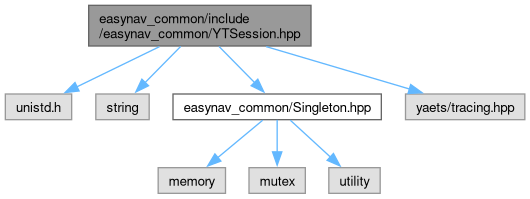
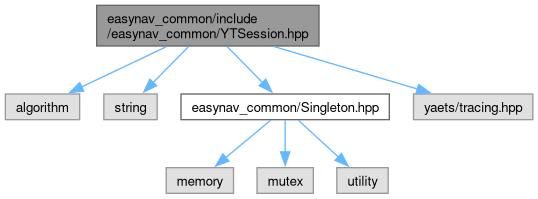
deploy: b920c87d57a5a49e52de9f60b9d99edee0049f30

diff --git a/YTSession_8hpp_source.html b/YTSession_8hpp_source.html
@@ -123,62 +123,73 @@ document.addEventListener('DOMContentLoaded', () => {
 <div class="line"><a id="l00016" name="l00016"></a><span class="lineno">   16</span><span class="preprocessor">#ifndef EASYNAV_COMMON_TYPES__YTSESSION_HPP_</span></div>
 <div class="line"><a id="l00017" name="l00017"></a><span class="lineno">   17</span><span class="preprocessor">#define EASYNAV_COMMON_TYPES__YTSESSION_HPP_</span></div>
 <div class="line"><a id="l00018" name="l00018"></a><span class="lineno">   18</span> </div>
-<div class="line"><a id="l00019" name="l00019"></a><span class="lineno">   19</span><span class="preprocessor">#include &lt;unistd.h&gt;</span></div>
-<div class="line"><a id="l00020" name="l00020"></a><span class="lineno">   20</span> </div>
-<div class="line"><a id="l00021" name="l00021"></a><span class="lineno">   21</span><span class="preprocessor">#include &lt;string&gt;</span></div>
-<div class="line"><a id="l00022" name="l00022"></a><span class="lineno">   22</span> </div>
-<div class="line"><a id="l00023" name="l00023"></a><span class="lineno">   23</span><span class="preprocessor">#include &quot;<a class="code" href="Singleton_8hpp.html">easynav_common/Singleton.hpp</a>&quot;</span></div>
-<div class="line"><a id="l00024" name="l00024"></a><span class="lineno">   24</span> </div>
-<div class="line"><a id="l00025" name="l00025"></a><span class="lineno">   25</span><span class="preprocessor">#include &quot;yaets/tracing.hpp&quot;</span></div>
-<div class="line"><a id="l00026" name="l00026"></a><span class="lineno">   26</span> </div>
-<div class="line"><a id="l00027" name="l00027"></a><span class="lineno">   27</span><span class="keyword">namespace </span><a class="code hl_namespace" href="namespaceeasynav.html">easynav</a></div>
-<div class="line"><a id="l00028" name="l00028"></a><span class="lineno">   28</span>{</div>
-<div class="line"><a id="l00029" name="l00029"></a><span class="lineno">   29</span></div>
-<div class="foldopen" id="foldopen00034" data-start="{" data-end="};">
-<div class="line"><a id="l00034" name="l00034"></a><span class="lineno"><a class="line" href="classeasynav_1_1YTSession.html">   34</a></span><span class="keyword">class </span><a class="code hl_function" href="classeasynav_1_1YTSession.html#a31be0c596001be5ae522a9268c283280">YTSession</a> : <span class="keyword">public</span> yaets::TraceSession, <span class="keyword">public</span> <a class="code hl_function" href="classeasynav_1_1Singleton.html#a48d1fc15e788981ec5f7fe3e5c8641d7">Singleton</a>&lt;YTSession&gt;</div>
-<div class="line"><a id="l00035" name="l00035"></a><span class="lineno">   35</span>{</div>
-<div class="line"><a id="l00036" name="l00036"></a><span class="lineno">   36</span><span class="keyword">public</span>:</div>
-<div class="foldopen" id="foldopen00037" data-start="{" data-end="}">
-<div class="line"><a id="l00037" name="l00037"></a><span class="lineno"><a class="line" href="classeasynav_1_1YTSession.html#a31be0c596001be5ae522a9268c283280">   37</a></span>  <span class="keyword">explicit</span> <a class="code hl_function" href="classeasynav_1_1YTSession.html#a31be0c596001be5ae522a9268c283280">YTSession</a>()</div>
-<div class="line"><a id="l00038" name="l00038"></a><span class="lineno">   38</span>  : yaets::TraceSession(log_path())</div>
-<div class="line"><a id="l00039" name="l00039"></a><span class="lineno">   39</span>  {}</div>
-</div>
-<div class="line"><a id="l00040" name="l00040"></a><span class="lineno">   40</span> </div>
-<div class="foldopen" id="foldopen00041" data-start="{" data-end="}">
-<div class="line"><a id="l00041" name="l00041"></a><span class="lineno"><a class="line" href="classeasynav_1_1YTSession.html#afccea8a77e02010809479a7dd16218ef">   41</a></span>  <a class="code hl_function" href="classeasynav_1_1YTSession.html#afccea8a77e02010809479a7dd16218ef">~YTSession</a>()</div>
-<div class="line"><a id="l00042" name="l00042"></a><span class="lineno">   42</span>  {</div>
-<div class="line"><a id="l00043" name="l00043"></a><span class="lineno">   43</span>    stop();</div>
-<div class="line"><a id="l00044" name="l00044"></a><span class="lineno">   44</span>  }</div>
+<div class="line"><a id="l00019" name="l00019"></a><span class="lineno">   19</span><span class="preprocessor">#include &lt;algorithm&gt;</span></div>
+<div class="line"><a id="l00020" name="l00020"></a><span class="lineno">   20</span><span class="preprocessor">#include &lt;string&gt;</span></div>
+<div class="line"><a id="l00021" name="l00021"></a><span class="lineno">   21</span> </div>
+<div class="line"><a id="l00022" name="l00022"></a><span class="lineno">   22</span><span class="preprocessor">#include &quot;<a class="code" href="Singleton_8hpp.html">easynav_common/Singleton.hpp</a>&quot;</span></div>
+<div class="line"><a id="l00023" name="l00023"></a><span class="lineno">   23</span> </div>
+<div class="line"><a id="l00024" name="l00024"></a><span class="lineno">   24</span><span class="preprocessor">#include &quot;yaets/tracing.hpp&quot;</span></div>
+<div class="line"><a id="l00025" name="l00025"></a><span class="lineno">   25</span> </div>
+<div class="line"><a id="l00026" name="l00026"></a><span class="lineno">   26</span><span class="keyword">namespace </span><a class="code hl_namespace" href="namespaceeasynav.html">easynav</a></div>
+<div class="line"><a id="l00027" name="l00027"></a><span class="lineno">   27</span>{</div>
+<div class="line"><a id="l00028" name="l00028"></a><span class="lineno">   28</span></div>
+<div class="foldopen" id="foldopen00033" data-start="{" data-end="};">
+<div class="line"><a id="l00033" name="l00033"></a><span class="lineno"><a class="line" href="classeasynav_1_1YTSession.html">   33</a></span><span class="keyword">class </span><a class="code hl_function" href="classeasynav_1_1YTSession.html#a2695b9131e703e82ea893cd8c0a37cec">YTSession</a> : <span class="keyword">public</span> yaets::TraceSession, <span class="keyword">public</span> <a class="code hl_function" href="classeasynav_1_1Singleton.html#a48d1fc15e788981ec5f7fe3e5c8641d7">Singleton</a>&lt;YTSession&gt;</div>
+<div class="line"><a id="l00034" name="l00034"></a><span class="lineno">   34</span>{</div>
+<div class="line"><a id="l00035" name="l00035"></a><span class="lineno">   35</span><span class="keyword">public</span>:</div>
+<div class="foldopen" id="foldopen00042" data-start="{" data-end="}">
+<div class="line"><a id="l00042" name="l00042"></a><span class="lineno"><a class="line" href="classeasynav_1_1YTSession.html#a2695b9131e703e82ea893cd8c0a37cec">   42</a></span>  <span class="keyword">explicit</span> <a class="code hl_function" href="classeasynav_1_1YTSession.html#a2695b9131e703e82ea893cd8c0a37cec">YTSession</a>(<span class="keyword">const</span> std::string &amp; ros_namespace = <span class="stringliteral">&quot;&quot;</span>)</div>
+<div class="line"><a id="l00043" name="l00043"></a><span class="lineno">   43</span>  : yaets::TraceSession(log_path(ros_namespace))</div>
+<div class="line"><a id="l00044" name="l00044"></a><span class="lineno">   44</span>  {}</div>
 </div>
 <div class="line"><a id="l00045" name="l00045"></a><span class="lineno">   45</span> </div>
-<div class="line"><a id="l00046" name="l00046"></a><span class="lineno">   46</span>  <a class="code hl_define" href="Singleton_8hpp.html#af0372c6f11888fb8af91d3a0c10a1899">SINGLETON_DEFINITIONS</a>(<a class="code hl_class" href="classeasynav_1_1YTSession.html">YTSession</a>)</div>
-<div class="line"><a id="l00047" name="l00047"></a><span class="lineno">   47</span> </div>
-<div class="line"><a id="l00048" name="l00048"></a><span class="lineno">   48</span><span class="keyword">private</span>:</div>
-<div class="line"><a id="l00050" name="l00050"></a><span class="lineno">   50</span>  <span class="keyword">static</span> std::string log_path()</div>
-<div class="line"><a id="l00051" name="l00051"></a><span class="lineno">   51</span>  {</div>
-<div class="line"><a id="l00052" name="l00052"></a><span class="lineno">   52</span>    <span class="keywordflow">return</span> <span class="stringliteral">&quot;/tmp/easynav_&quot;</span> + std::to_string(::getpid()) + <span class="stringliteral">&quot;.log&quot;</span>;</div>
-<div class="line"><a id="l00053" name="l00053"></a><span class="lineno">   53</span>  }</div>
-<div class="line"><a id="l00054" name="l00054"></a><span class="lineno">   54</span>};</div>
+<div class="foldopen" id="foldopen00046" data-start="{" data-end="}">
+<div class="line"><a id="l00046" name="l00046"></a><span class="lineno"><a class="line" href="classeasynav_1_1YTSession.html#afccea8a77e02010809479a7dd16218ef">   46</a></span>  <a class="code hl_function" href="classeasynav_1_1YTSession.html#afccea8a77e02010809479a7dd16218ef">~YTSession</a>()</div>
+<div class="line"><a id="l00047" name="l00047"></a><span class="lineno">   47</span>  {</div>
+<div class="line"><a id="l00048" name="l00048"></a><span class="lineno">   48</span>    stop();</div>
+<div class="line"><a id="l00049" name="l00049"></a><span class="lineno">   49</span>  }</div>
 </div>
-<div class="line"><a id="l00055" name="l00055"></a><span class="lineno">   55</span> </div>
-<div class="line"><a id="l00056" name="l00056"></a><span class="lineno">   56</span>}  <span class="comment">// namespace easynav</span></div>
-<div class="line"><a id="l00057" name="l00057"></a><span class="lineno">   57</span> </div>
-<div class="line"><a id="l00058" name="l00058"></a><span class="lineno">   58</span><span class="preprocessor">#ifdef EASYNAV_DEBUG_WITH_YAETS</span></div>
-<div class="line"><a id="l00059" name="l00059"></a><span class="lineno">   59</span><span class="preprocessor">  #define EASYNAV_TRACE_EVENT TRACE_EVENT(easynav::YTSession::get())</span></div>
-<div class="line"><a id="l00060" name="l00060"></a><span class="lineno">   60</span><span class="preprocessor">  #define EASYNAV_TRACE_NAMED_EVENT(name) yaets::TraceGuard guard(easynav::YTSession::get(), name);</span></div>
-<div class="line"><a id="l00061" name="l00061"></a><span class="lineno">   61</span><span class="preprocessor">#else</span></div>
-<div class="line"><a id="l00062" name="l00062"></a><span class="lineno"><a class="line" href="YTSession_8hpp.html#a6937fabb6e5178e0974bb8a8e8fdc495">   62</a></span><span class="preprocessor">  #define EASYNAV_TRACE_EVENT ((void)0)</span></div>
-<div class="line"><a id="l00063" name="l00063"></a><span class="lineno"><a class="line" href="YTSession_8hpp.html#a7a303b11d7d2d05815d05bea14db6303">   63</a></span><span class="preprocessor">  #define EASYNAV_TRACE_NAMED_EVENT(name) ((void)0)</span></div>
-<div class="line"><a id="l00064" name="l00064"></a><span class="lineno">   64</span><span class="preprocessor">#endif</span></div>
-<div class="line"><a id="l00065" name="l00065"></a><span class="lineno">   65</span> </div>
-<div class="line"><a id="l00066" name="l00066"></a><span class="lineno">   66</span> </div>
-<div class="line"><a id="l00067" name="l00067"></a><span class="lineno">   67</span><span class="preprocessor">#endif  </span><span class="comment">// EASYNAV_COMMON_TYPES__YTSESSION_HPP_</span></div>
+<div class="line"><a id="l00050" name="l00050"></a><span class="lineno">   50</span> </div>
+<div class="line"><a id="l00051" name="l00051"></a><span class="lineno">   51</span>  <a class="code hl_define" href="Singleton_8hpp.html#af0372c6f11888fb8af91d3a0c10a1899">SINGLETON_DEFINITIONS</a>(<a class="code hl_class" href="classeasynav_1_1YTSession.html">YTSession</a>)</div>
+<div class="line"><a id="l00052" name="l00052"></a><span class="lineno">   52</span> </div>
+<div class="line"><a id="l00053" name="l00053"></a><span class="lineno">   53</span><span class="keyword">private</span>:</div>
+<div class="line"><a id="l00060" name="l00060"></a><span class="lineno">   60</span>  <span class="keyword">static</span> std::string log_path(<span class="keyword">const</span> std::string &amp; ros_namespace)</div>
+<div class="line"><a id="l00061" name="l00061"></a><span class="lineno">   61</span>  {</div>
+<div class="line"><a id="l00062" name="l00062"></a><span class="lineno">   62</span>    std::string ns = ros_namespace;</div>
+<div class="line"><a id="l00063" name="l00063"></a><span class="lineno">   63</span>    <span class="keywordflow">while</span> (!ns.empty() &amp;&amp; ns.front() == <span class="charliteral">&#39;/&#39;</span>) {</div>
+<div class="line"><a id="l00064" name="l00064"></a><span class="lineno">   64</span>      ns.erase(ns.begin());</div>
+<div class="line"><a id="l00065" name="l00065"></a><span class="lineno">   65</span>    }</div>
+<div class="line"><a id="l00066" name="l00066"></a><span class="lineno">   66</span>    <span class="keywordflow">while</span> (!ns.empty() &amp;&amp; ns.back() == <span class="charliteral">&#39;/&#39;</span>) {</div>
+<div class="line"><a id="l00067" name="l00067"></a><span class="lineno">   67</span>      ns.pop_back();</div>
+<div class="line"><a id="l00068" name="l00068"></a><span class="lineno">   68</span>    }</div>
+<div class="line"><a id="l00069" name="l00069"></a><span class="lineno">   69</span>    std::replace(ns.begin(), ns.end(), <span class="charliteral">&#39;/&#39;</span>, <span class="charliteral">&#39;_&#39;</span>);</div>
+<div class="line"><a id="l00070" name="l00070"></a><span class="lineno">   70</span> </div>
+<div class="line"><a id="l00071" name="l00071"></a><span class="lineno">   71</span>    <span class="keywordflow">if</span> (ns.empty()) {</div>
+<div class="line"><a id="l00072" name="l00072"></a><span class="lineno">   72</span>      <span class="keywordflow">return</span> <span class="stringliteral">&quot;/tmp/easynav.log&quot;</span>;</div>
+<div class="line"><a id="l00073" name="l00073"></a><span class="lineno">   73</span>    }</div>
+<div class="line"><a id="l00074" name="l00074"></a><span class="lineno">   74</span>    <span class="keywordflow">return</span> <span class="stringliteral">&quot;/tmp/easynav_&quot;</span> + ns + <span class="stringliteral">&quot;.log&quot;</span>;</div>
+<div class="line"><a id="l00075" name="l00075"></a><span class="lineno">   75</span>  }</div>
+<div class="line"><a id="l00076" name="l00076"></a><span class="lineno">   76</span>};</div>
+</div>
+<div class="line"><a id="l00077" name="l00077"></a><span class="lineno">   77</span> </div>
+<div class="line"><a id="l00078" name="l00078"></a><span class="lineno">   78</span>}  <span class="comment">// namespace easynav</span></div>
+<div class="line"><a id="l00079" name="l00079"></a><span class="lineno">   79</span> </div>
+<div class="line"><a id="l00080" name="l00080"></a><span class="lineno">   80</span><span class="preprocessor">#ifdef EASYNAV_DEBUG_WITH_YAETS</span></div>
+<div class="line"><a id="l00081" name="l00081"></a><span class="lineno">   81</span><span class="preprocessor">  #define EASYNAV_TRACE_EVENT TRACE_EVENT(easynav::YTSession::get())</span></div>
+<div class="line"><a id="l00082" name="l00082"></a><span class="lineno">   82</span><span class="preprocessor">  #define EASYNAV_TRACE_NAMED_EVENT(name) yaets::TraceGuard guard(easynav::YTSession::get(), name);</span></div>
+<div class="line"><a id="l00083" name="l00083"></a><span class="lineno">   83</span><span class="preprocessor">#else</span></div>
+<div class="line"><a id="l00084" name="l00084"></a><span class="lineno"><a class="line" href="YTSession_8hpp.html#a6937fabb6e5178e0974bb8a8e8fdc495">   84</a></span><span class="preprocessor">  #define EASYNAV_TRACE_EVENT ((void)0)</span></div>
+<div class="line"><a id="l00085" name="l00085"></a><span class="lineno"><a class="line" href="YTSession_8hpp.html#a7a303b11d7d2d05815d05bea14db6303">   85</a></span><span class="preprocessor">  #define EASYNAV_TRACE_NAMED_EVENT(name) ((void)0)</span></div>
+<div class="line"><a id="l00086" name="l00086"></a><span class="lineno">   86</span><span class="preprocessor">#endif</span></div>
+<div class="line"><a id="l00087" name="l00087"></a><span class="lineno">   87</span> </div>
+<div class="line"><a id="l00088" name="l00088"></a><span class="lineno">   88</span> </div>
+<div class="line"><a id="l00089" name="l00089"></a><span class="lineno">   89</span><span class="preprocessor">#endif  </span><span class="comment">// EASYNAV_COMMON_TYPES__YTSESSION_HPP_</span></div>
 <div class="ttc" id="aSingleton_8hpp_html"><div class="ttname"><a href="Singleton_8hpp.html">Singleton.hpp</a></div></div>
 <div class="ttc" id="aSingleton_8hpp_html_af0372c6f11888fb8af91d3a0c10a1899"><div class="ttname"><a href="Singleton_8hpp.html#af0372c6f11888fb8af91d3a0c10a1899">SINGLETON_DEFINITIONS</a></div><div class="ttdeci">#define SINGLETON_DEFINITIONS(ClassName)</div><div class="ttdef"><b>Definition</b> Singleton.hpp:81</div></div>
 <div class="ttc" id="aclasseasynav_1_1Singleton_html_a48d1fc15e788981ec5f7fe3e5c8641d7"><div class="ttname"><a href="classeasynav_1_1Singleton.html#a48d1fc15e788981ec5f7fe3e5c8641d7">easynav::Singleton&lt; YTSession &gt;::Singleton</a></div><div class="ttdeci">Singleton()=default</div></div>
-<div class="ttc" id="aclasseasynav_1_1YTSession_html"><div class="ttname"><a href="classeasynav_1_1YTSession.html">easynav::YTSession</a></div><div class="ttdoc">A Yaets Tracing Session.</div><div class="ttdef"><b>Definition</b> YTSession.hpp:35</div></div>
-<div class="ttc" id="aclasseasynav_1_1YTSession_html_a31be0c596001be5ae522a9268c283280"><div class="ttname"><a href="classeasynav_1_1YTSession.html#a31be0c596001be5ae522a9268c283280">easynav::YTSession::YTSession</a></div><div class="ttdeci">YTSession()</div><div class="ttdef"><b>Definition</b> YTSession.hpp:37</div></div>
-<div class="ttc" id="aclasseasynav_1_1YTSession_html_afccea8a77e02010809479a7dd16218ef"><div class="ttname"><a href="classeasynav_1_1YTSession.html#afccea8a77e02010809479a7dd16218ef">easynav::YTSession::~YTSession</a></div><div class="ttdeci">~YTSession()</div><div class="ttdef"><b>Definition</b> YTSession.hpp:41</div></div>
+<div class="ttc" id="aclasseasynav_1_1YTSession_html"><div class="ttname"><a href="classeasynav_1_1YTSession.html">easynav::YTSession</a></div><div class="ttdoc">A Yaets Tracing Session.</div><div class="ttdef"><b>Definition</b> YTSession.hpp:34</div></div>
+<div class="ttc" id="aclasseasynav_1_1YTSession_html_a2695b9131e703e82ea893cd8c0a37cec"><div class="ttname"><a href="classeasynav_1_1YTSession.html#a2695b9131e703e82ea893cd8c0a37cec">easynav::YTSession::YTSession</a></div><div class="ttdeci">YTSession(const std::string &amp;ros_namespace=&quot;&quot;)</div><div class="ttdef"><b>Definition</b> YTSession.hpp:42</div></div>
+<div class="ttc" id="aclasseasynav_1_1YTSession_html_afccea8a77e02010809479a7dd16218ef"><div class="ttname"><a href="classeasynav_1_1YTSession.html#afccea8a77e02010809479a7dd16218ef">easynav::YTSession::~YTSession</a></div><div class="ttdeci">~YTSession()</div><div class="ttdef"><b>Definition</b> YTSession.hpp:46</div></div>
 <div class="ttc" id="anamespaceeasynav_html"><div class="ttname"><a href="namespaceeasynav.html">easynav</a></div><div class="ttdef"><b>Definition</b> CircularBuffer.hpp:23</div></div>
 </div><!-- fragment --></div><!-- contents -->
 <!-- start footer part -->

diff --git a/classeasynav_1_1YTSession.html b/classeasynav_1_1YTSession.html
@@ -140,7 +140,7 @@ Collaboration diagram for YTSession:</div>
 <table class="memberdecls">
 <tr class="heading"><td colspan="2"><h2 id="header-pub-methods" class="groupheader"><a id="pub-methods" name="pub-methods"></a>
 Public Member Functions</h2></td></tr>
-<tr class="memitem:a31be0c596001be5ae522a9268c283280" id="r_a31be0c596001be5ae522a9268c283280"><td class="memItemLeft">&#160;</td><td class="memItemRight"><a class="el" href="#a31be0c596001be5ae522a9268c283280">YTSession</a> ()</td></tr>
+<tr class="memitem:a2695b9131e703e82ea893cd8c0a37cec" id="r_a2695b9131e703e82ea893cd8c0a37cec"><td class="memItemLeft">&#160;</td><td class="memItemRight"><a class="el" href="#a2695b9131e703e82ea893cd8c0a37cec">YTSession</a> (const std::string &amp;ros_namespace=&quot;&quot;)</td></tr>
 <tr class="memitem:afccea8a77e02010809479a7dd16218ef" id="r_afccea8a77e02010809479a7dd16218ef"><td class="memItemLeft">&#160;</td><td class="memItemRight"><a class="el" href="#afccea8a77e02010809479a7dd16218ef">~YTSession</a> ()</td></tr>
 </table><table class="memberdecls">
 <tr class="heading"><td colspan="2"><h2 id="header-inherited" class="groupheader"><a id="inherited" name="inherited"></a>
@@ -158,8 +158,8 @@ Additional Inherited Members</h2></td></tr>
 <a name="details" id="details"></a><h2 id="header-details" class="groupheader">Detailed Description</h2>
 <div class="textblock"><p>A Yaets Tracing Session. </p>
 </div><a name="doc-constructors" id="doc-constructors"></a><h2 id="header-doc-constructors" class="groupheader">Constructor &amp; Destructor Documentation</h2>
-<a id="a31be0c596001be5ae522a9268c283280" name="a31be0c596001be5ae522a9268c283280"></a>
-<h2 class="memtitle"><span class="permalink"><a href="#a31be0c596001be5ae522a9268c283280">&#9670;&#160;</a></span>YTSession()</h2>
+<a id="a2695b9131e703e82ea893cd8c0a37cec" name="a2695b9131e703e82ea893cd8c0a37cec"></a>
+<h2 class="memtitle"><span class="permalink"><a href="#a2695b9131e703e82ea893cd8c0a37cec">&#9670;&#160;</a></span>YTSession()</h2>
 
 <div class="memitem">
 <div class="memproto">
@@ -170,7 +170,7 @@ Additional Inherited Members</h2></td></tr>
         <tr>
           <td class="memname">YTSession </td>
           <td>(</td>
-          <td class="paramname"><span class="paramname"><em></em></span></td><td>)</td>
+          <td class="paramtype">const std::string &amp;</td>          <td class="paramname"><span class="paramname"><em>ros_namespace</em></span><span class="paramdefsep"> = </span><span class="paramdefval">&quot;&quot;</span></td><td>)</td>
           <td></td>
         </tr>
       </table>
@@ -180,6 +180,12 @@ Additional Inherited Members</h2></td></tr>
   </tr>
 </table>
 </div><div class="memdoc">
+<dl class="params"><dt>Parameters</dt><dd>
+  <table class="params">
+    <tr><td class="paramname">ros_namespace</td><td>The owning node's ROS namespace (e.g. "/robot_1" or "/"), used to pick this instance's trace log path &ndash; see log_path(). Only the first call across <a class="el" href="classeasynav_1_1Singleton.html#af49757e19ecd10cba2575b788ca6046f">getInstance()</a>/get() overloads (from any translation unit) actually constructs the singleton, so this must be supplied before any EASYNAV_TRACE_EVENT/EASYNAV_TRACE_NAMED_EVENT fires; <a class="el" href="system__main_8cpp.html">system_main.cpp</a> does this right after creating system_node. </td></tr>
+  </table>
+  </dd>
+</dl>
 
 </div>
 </div>
@@ -190,7 +196,7 @@ Additional Inherited Members</h2></td></tr>
 <div class="memproto">
       <table class="memname">
         <tr>
-          <td class="memname">~<a class="el" href="#a31be0c596001be5ae522a9268c283280">YTSession</a> </td>
+          <td class="memname">~<a class="el" href="#a2695b9131e703e82ea893cd8c0a37cec">YTSession</a> </td>
           <td>(</td>
           <td class="paramname"><span class="paramname"><em></em></span></td><td>)</td>
           <td></td>

diff --git a/YTSession_8hpp.html b/YTSession_8hpp.html
@@ -109,7 +109,7 @@ document.addEventListener('DOMContentLoaded', () => {
   <div class="headertitle"><div class="title">YTSession.hpp File Reference</div></div>
 </div><!--header-->
 <div class="contents">
-<div class="textblock"><code>#include &lt;unistd.h&gt;</code><br />
+<div class="textblock"><code>#include &lt;algorithm&gt;</code><br />
 <code>#include &lt;string&gt;</code><br />
 <code>#include &quot;<a class="el" href="Singleton_8hpp_source.html">easynav_common/Singleton.hpp</a>&quot;</code><br />
 <code>#include &quot;yaets/tracing.hpp&quot;</code><br />
@@ -118,21 +118,21 @@ Include dependency graph for YTSession.hpp:</div>
 <div class="dyncontent">
 <div class="center"><img src="YTSession_8hpp__incl.png" border="0" usemap="#aeasynav__common_2include_2easynav__common_2YTSession_8hpp" loading="lazy" alt=""/></div>
 <map name="aeasynav__common_2include_2easynav__common_2YTSession_8hpp" id="aeasynav__common_2include_2easynav__common_2YTSession_8hpp">
-<area shape="rect" title=" " alt="" coords="89,5,311,46"/>
-<area shape="rect" title=" " alt="" coords="5,94,72,120"/>
-<area shape="poly" title=" " alt="" coords="161,49,78,89,76,84,158,44"/>
-<area shape="rect" title=" " alt="" coords="96,94,149,120"/>
-<area shape="poly" title=" " alt="" coords="183,48,147,84,143,81,179,45"/>
-<area shape="rect" href="Singleton_8hpp.html" title=" " alt="" coords="173,94,381,120"/>
-<area shape="poly" title=" " alt="" coords="221,45,256,81,253,84,217,48"/>
-<area shape="rect" title=" " alt="" coords="406,94,525,120"/>
-<area shape="poly" title=" " alt="" coords="267,44,410,86,409,92,265,49"/>
-<area shape="rect" title=" " alt="" coords="158,168,226,193"/>
-<area shape="poly" title=" " alt="" coords="264,122,219,160,216,156,261,118"/>
-<area shape="rect" title=" " alt="" coords="249,168,305,193"/>
-<area shape="poly" title=" " alt="" coords="280,120,280,152,274,152,274,120"/>
-<area shape="rect" title=" " alt="" coords="329,168,380,193"/>
-<area shape="poly" title=" " alt="" coords="292,118,332,155,329,159,288,122"/>
+<area shape="rect" title=" " alt="" coords="97,5,319,46"/>
+<area shape="rect" title=" " alt="" coords="5,94,80,120"/>
+<area shape="poly" title=" " alt="" coords="168,49,83,89,80,85,165,44"/>
+<area shape="rect" title=" " alt="" coords="104,94,157,120"/>
+<area shape="poly" title=" " alt="" coords="191,48,155,84,151,81,187,45"/>
+<area shape="rect" href="Singleton_8hpp.html" title=" " alt="" coords="181,94,389,120"/>
+<area shape="poly" title=" " alt="" coords="229,45,264,81,261,84,225,48"/>
+<area shape="rect" title=" " alt="" coords="414,94,533,120"/>
+<area shape="poly" title=" " alt="" coords="275,44,418,86,417,92,273,49"/>
+<area shape="rect" title=" " alt="" coords="166,168,234,193"/>
+<area shape="poly" title=" " alt="" coords="272,122,227,160,224,156,269,118"/>
+<area shape="rect" title=" " alt="" coords="257,168,313,193"/>
+<area shape="poly" title=" " alt="" coords="288,120,288,152,282,152,282,120"/>
+<area shape="rect" title=" " alt="" coords="337,168,388,193"/>
+<area shape="poly" title=" " alt="" coords="300,118,340,155,337,159,296,122"/>
 </map>
 </div>
 </div><div class="textblock"><div class="dynheader">

diff --git a/classeasynav_1_1YTSession-members.html b/classeasynav_1_1YTSession-members.html
@@ -113,7 +113,7 @@ document.addEventListener('DOMContentLoaded', () => {
   <tr class="even"><td class="entry"><a class="el" href="classeasynav_1_1Singleton.html#acd7625506c7a86fd4c6a9118de9fd799">operator=</a>(const Singleton &amp;)=delete</td><td class="entry"><a class="el" href="classeasynav_1_1Singleton.html">Singleton&lt; YTSession &gt;</a></td><td class="entry"><span class="mlabel">protected</span></td></tr>
   <tr class="odd"><td class="entry"><a class="el" href="classeasynav_1_1Singleton.html#a932098eab97158326f0fe7a8283b319f">removeInstance</a>()</td><td class="entry"><a class="el" href="classeasynav_1_1Singleton.html">Singleton&lt; YTSession &gt;</a></td><td class="entry"><span class="mlabel">static</span></td></tr>
   <tr class="even"><td class="entry"><a class="el" href="classeasynav_1_1Singleton.html#a48d1fc15e788981ec5f7fe3e5c8641d7">Singleton</a>()=default</td><td class="entry"><a class="el" href="classeasynav_1_1Singleton.html">Singleton&lt; YTSession &gt;</a></td><td class="entry"><span class="mlabel">protected</span></td></tr>
-  <tr class="odd"><td class="entry"><a class="el" href="classeasynav_1_1YTSession.html#a31be0c596001be5ae522a9268c283280">YTSession</a>()</td><td class="entry"><a class="el" href="classeasynav_1_1YTSession.html">YTSession</a></td><td class="entry"><span class="mlabel">explicit</span></td></tr>
+  <tr class="odd"><td class="entry"><a class="el" href="classeasynav_1_1YTSession.html#a2695b9131e703e82ea893cd8c0a37cec">YTSession</a>(const std::string &amp;ros_namespace=&quot;&quot;)</td><td class="entry"><a class="el" href="classeasynav_1_1YTSession.html">YTSession</a></td><td class="entry"><span class="mlabel">explicit</span></td></tr>
   <tr class="even"><td class="entry"><a class="el" href="classeasynav_1_1Singleton.html#ad5e506b7074ad31f76ccf25c46644623">~Singleton</a>()=default</td><td class="entry"><a class="el" href="classeasynav_1_1Singleton.html">Singleton&lt; YTSession &gt;</a></td><td class="entry"><span class="mlabel">protected</span></td></tr>
   <tr class="odd"><td class="entry"><a class="el" href="classeasynav_1_1YTSession.html#afccea8a77e02010809479a7dd16218ef">~YTSession</a>()</td><td class="entry"><a class="el" href="classeasynav_1_1YTSession.html">YTSession</a></td><td class="entry"></td></tr>
 </table></div><!-- contents -->

diff --git a/SystemNode_8cpp.html b/SystemNode_8cpp.html
@@ -220,12 +220,12 @@ Include dependency graph for SystemNode.cpp:</div>
 <area shape="rect" title=" " alt="" coords="3991,368,4100,393"/>
 <area shape="poly" title=" " alt="" coords="3733,308,3976,361,3975,366,3732,313"/>
 <area shape="poly" title=" " alt="" coords="5456,308,5294,362,5244,385,5222,395,5192,403,5128,415,5042,425,4836,442,4480,461,4479,456,4836,437,5042,420,5127,410,5191,398,5220,389,5242,380,5292,358,5454,303"/>
-<area shape="rect" title=" " alt="" coords="5537,368,5604,393"/>
-<area shape="poly" title=" " alt="" coords="5506,303,5552,354,5548,358,5502,307"/>
+<area shape="rect" title=" " alt="" coords="5537,368,5612,393"/>
+<area shape="poly" title=" " alt="" coords="5506,303,5555,354,5551,358,5503,307"/>
 <area shape="rect" href="Singleton_8hpp.html" title=" " alt="" coords="5305,368,5513,393"/>
 <area shape="poly" title=" " alt="" coords="5483,307,5433,358,5430,354,5480,303"/>
-<area shape="rect" title=" " alt="" coords="5628,368,5748,393"/>
-<area shape="poly" title=" " alt="" coords="5522,303,5648,358,5646,363,5520,308"/>
+<area shape="rect" title=" " alt="" coords="5636,368,5756,393"/>
+<area shape="poly" title=" " alt="" coords="5523,303,5655,359,5653,364,5521,308"/>
 <area shape="poly" title=" " alt="" coords="5380,396,5261,445,5259,440,5378,391"/>
 <area shape="poly" title=" " alt="" coords="5350,396,5064,454,5063,449,5349,391"/>
 <area shape="rect" title=" " alt="" coords="5384,449,5435,474"/>

diff --git a/system__main_8cpp.html b/system__main_8cpp.html
@@ -276,10 +276,10 @@ Include dependency graph for system_main.cpp:</div>
 <area shape="poly" title=" " alt="" coords="3596,403,3538,442,3535,437,3593,399"/>
 <area shape="poly" title=" " alt="" coords="4103,308,3965,362,3915,385,3863,403,3776,424,3689,440,3548,459,3547,453,3688,435,3775,419,3862,398,3913,380,3963,358,4101,303"/>
 <area shape="poly" title=" " alt="" coords="4127,306,4097,356,4093,353,4123,304"/>
-<area shape="rect" title=" " alt="" coords="4208,368,4275,393"/>
-<area shape="poly" title=" " alt="" coords="4149,303,4216,355,4212,359,4146,307"/>
-<area shape="rect" title=" " alt="" coords="4299,368,4418,393"/>
-<area shape="poly" title=" " alt="" coords="4165,303,4314,359,4312,364,4163,308"/>
+<area shape="rect" title=" " alt="" coords="4208,368,4283,393"/>
+<area shape="poly" title=" " alt="" coords="4149,303,4219,356,4216,360,4146,307"/>
+<area shape="rect" title=" " alt="" coords="4307,368,4426,393"/>
+<area shape="poly" title=" " alt="" coords="4166,303,4321,359,4319,364,4164,308"/>
 </map>
 </div>
 </div><table class="memberdecls">

diff --git a/search/all_15.js b/search/all_15.js
@@ -2,6 +2,6 @@ var searchData=
 [
   ['y_0',['y',['../structeasynav_1_1PointPerceptionsOpsView_1_1VoxelKey.html#a0a2f84ed7838f07779ae24c5a9086d33',1,'easynav::PointPerceptionsOpsView::VoxelKey']]],
   ['yaw_1',['yaw',['../structeasynav_1_1GoalManager_1_1GoalTolerance.html#a21cd490f6191f66678f55b4c242a10cf',1,'easynav::GoalManager::GoalTolerance']]],
-  ['ytsession_2',['YTSession',['../classeasynav_1_1YTSession.html',1,'YTSession'],['../classeasynav_1_1YTSession.html#a31be0c596001be5ae522a9268c283280',1,'easynav::YTSession::YTSession()']]],
+  ['ytsession_2',['YTSession',['../classeasynav_1_1YTSession.html',1,'YTSession'],['../classeasynav_1_1YTSession.html#a2695b9131e703e82ea893cd8c0a37cec',1,'easynav::YTSession::YTSession()']]],
   ['ytsession_2ehpp_3',['YTSession.hpp',['../YTSession_8hpp.html',1,'']]]
 ];

diff --git a/functions_y.html b/functions_y.html
@@ -105,7 +105,7 @@ document.addEventListener('DOMContentLoaded', () => {
 <h3 class="doxsection"><a id="index_y" name="index_y"></a>- y -</h3><ul>
 <li>y&#160;:&#160;<a class="el" href="structeasynav_1_1PointPerceptionsOpsView_1_1VoxelKey.html#a0a2f84ed7838f07779ae24c5a9086d33">PointPerceptionsOpsView::VoxelKey</a></li>
 <li>yaw&#160;:&#160;<a class="el" href="structeasynav_1_1GoalManager_1_1GoalTolerance.html#a21cd490f6191f66678f55b4c242a10cf">GoalManager::GoalTolerance</a></li>
-<li>YTSession()&#160;:&#160;<a class="el" href="classeasynav_1_1YTSession.html#a31be0c596001be5ae522a9268c283280">YTSession</a></li>
+<li>YTSession()&#160;:&#160;<a class="el" href="classeasynav_1_1YTSession.html#a2695b9131e703e82ea893cd8c0a37cec">YTSession</a></li>
 </ul>
 </div><!-- contents -->
 <!-- start footer part -->

diff --git a/doxygen_crawl.html b/doxygen_crawl.html
@@ -512,7 +512,7 @@
 <a href="classeasynav_1_1SystemNode.html#afc8a8fa2ed2c7efe041cde46ce4c3c9b"/>
 <a href="classeasynav_1_1YTSession-members.html"/>
 <a href="classeasynav_1_1YTSession.html"/>
-<a href="classeasynav_1_1YTSession.html#a31be0c596001be5ae522a9268c283280"/>
+<a href="classeasynav_1_1YTSession.html#a2695b9131e703e82ea893cd8c0a37cec"/>
 <a href="classeasynav_1_1YTSession.html#afccea8a77e02010809479a7dd16218ef"/>
 <a href="classes.html"/>
 <a href="classstatic_01std_1_1unique__ptr_3_01RTTFBuffer_01_4.html"/>

diff --git a/functions_func_y.html b/functions_func_y.html
@@ -103,7 +103,7 @@ document.addEventListener('DOMContentLoaded', () => {
 
 
 <h3 class="doxsection"><a id="index_y" name="index_y"></a>- y -</h3><ul>
-<li>YTSession()&#160;:&#160;<a class="el" href="classeasynav_1_1YTSession.html#a31be0c596001be5ae522a9268c283280">YTSession</a></li>
+<li>YTSession()&#160;:&#160;<a class="el" href="classeasynav_1_1YTSession.html#a2695b9131e703e82ea893cd8c0a37cec">YTSession</a></li>
 </ul>
 </div><!-- contents -->
 <!-- start footer part -->

diff --git a/search/functions_12.js b/search/functions_12.js
@@ -1,4 +1,4 @@
 var searchData=
 [
-  ['ytsession_0',['YTSession',['../classeasynav_1_1YTSession.html#a31be0c596001be5ae522a9268c283280',1,'easynav::YTSession']]]
+  ['ytsession_0',['YTSession',['../classeasynav_1_1YTSession.html#a2695b9131e703e82ea893cd8c0a37cec',1,'easynav::YTSession']]]
 ];
